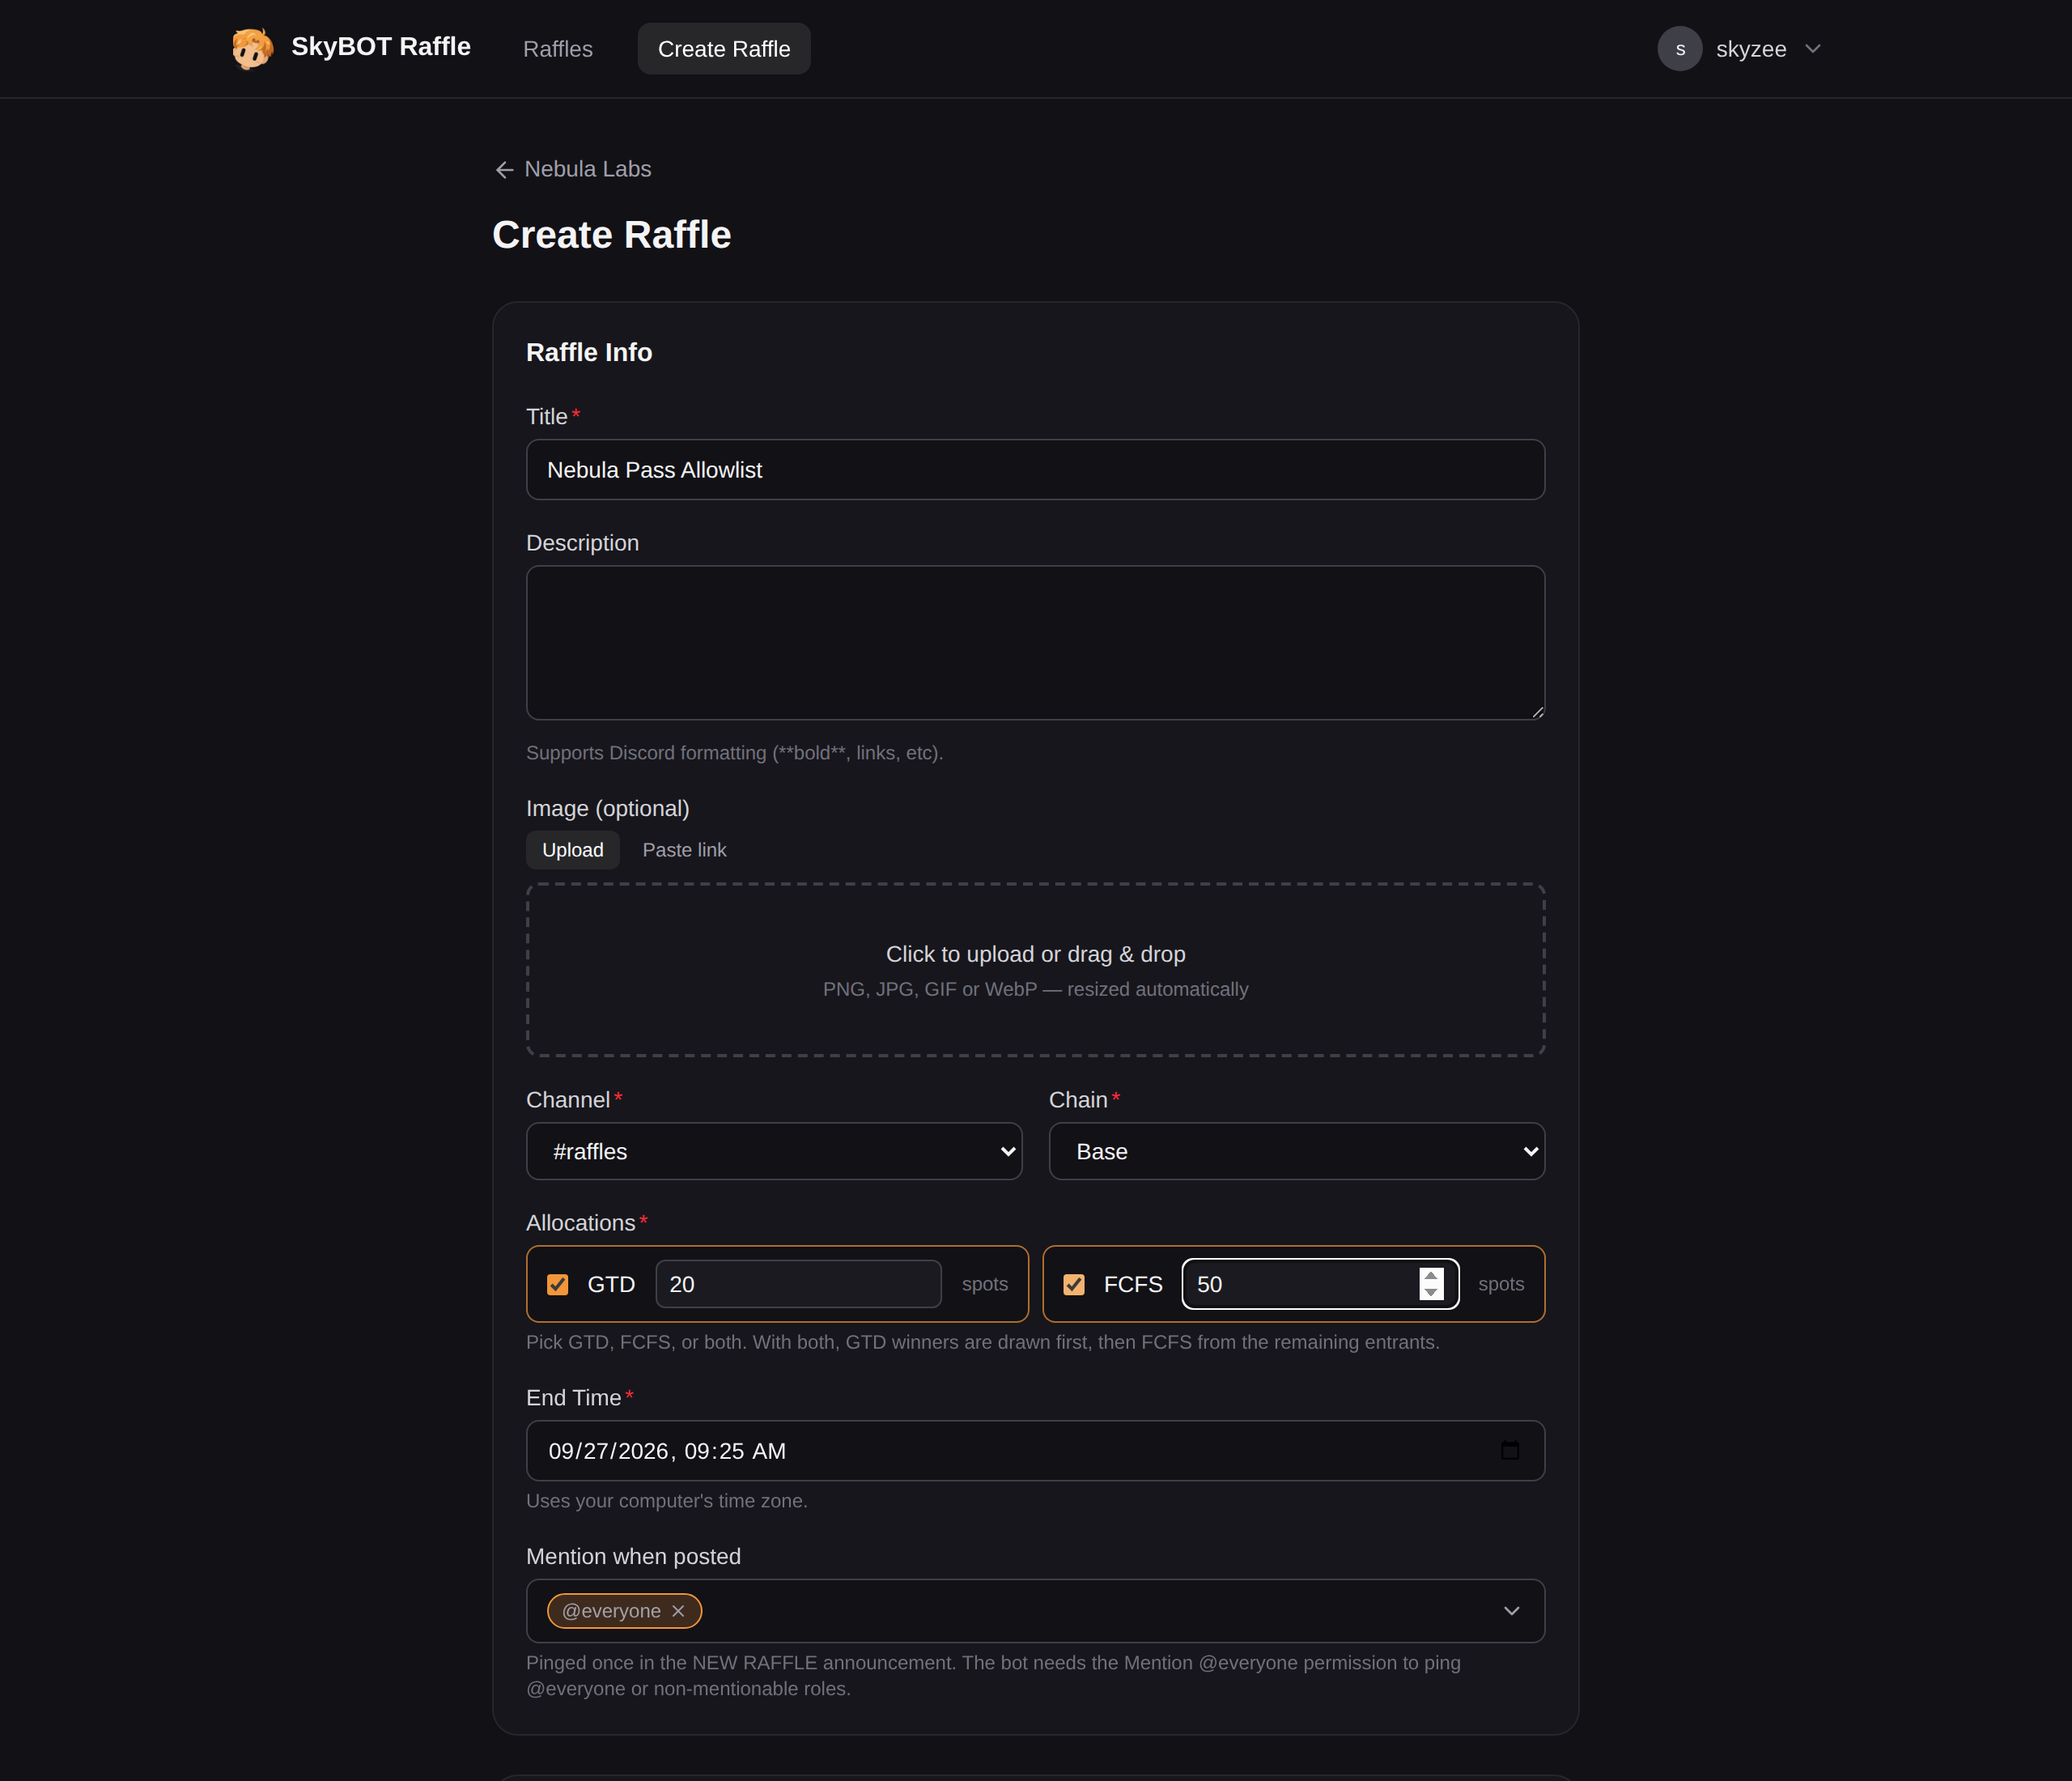
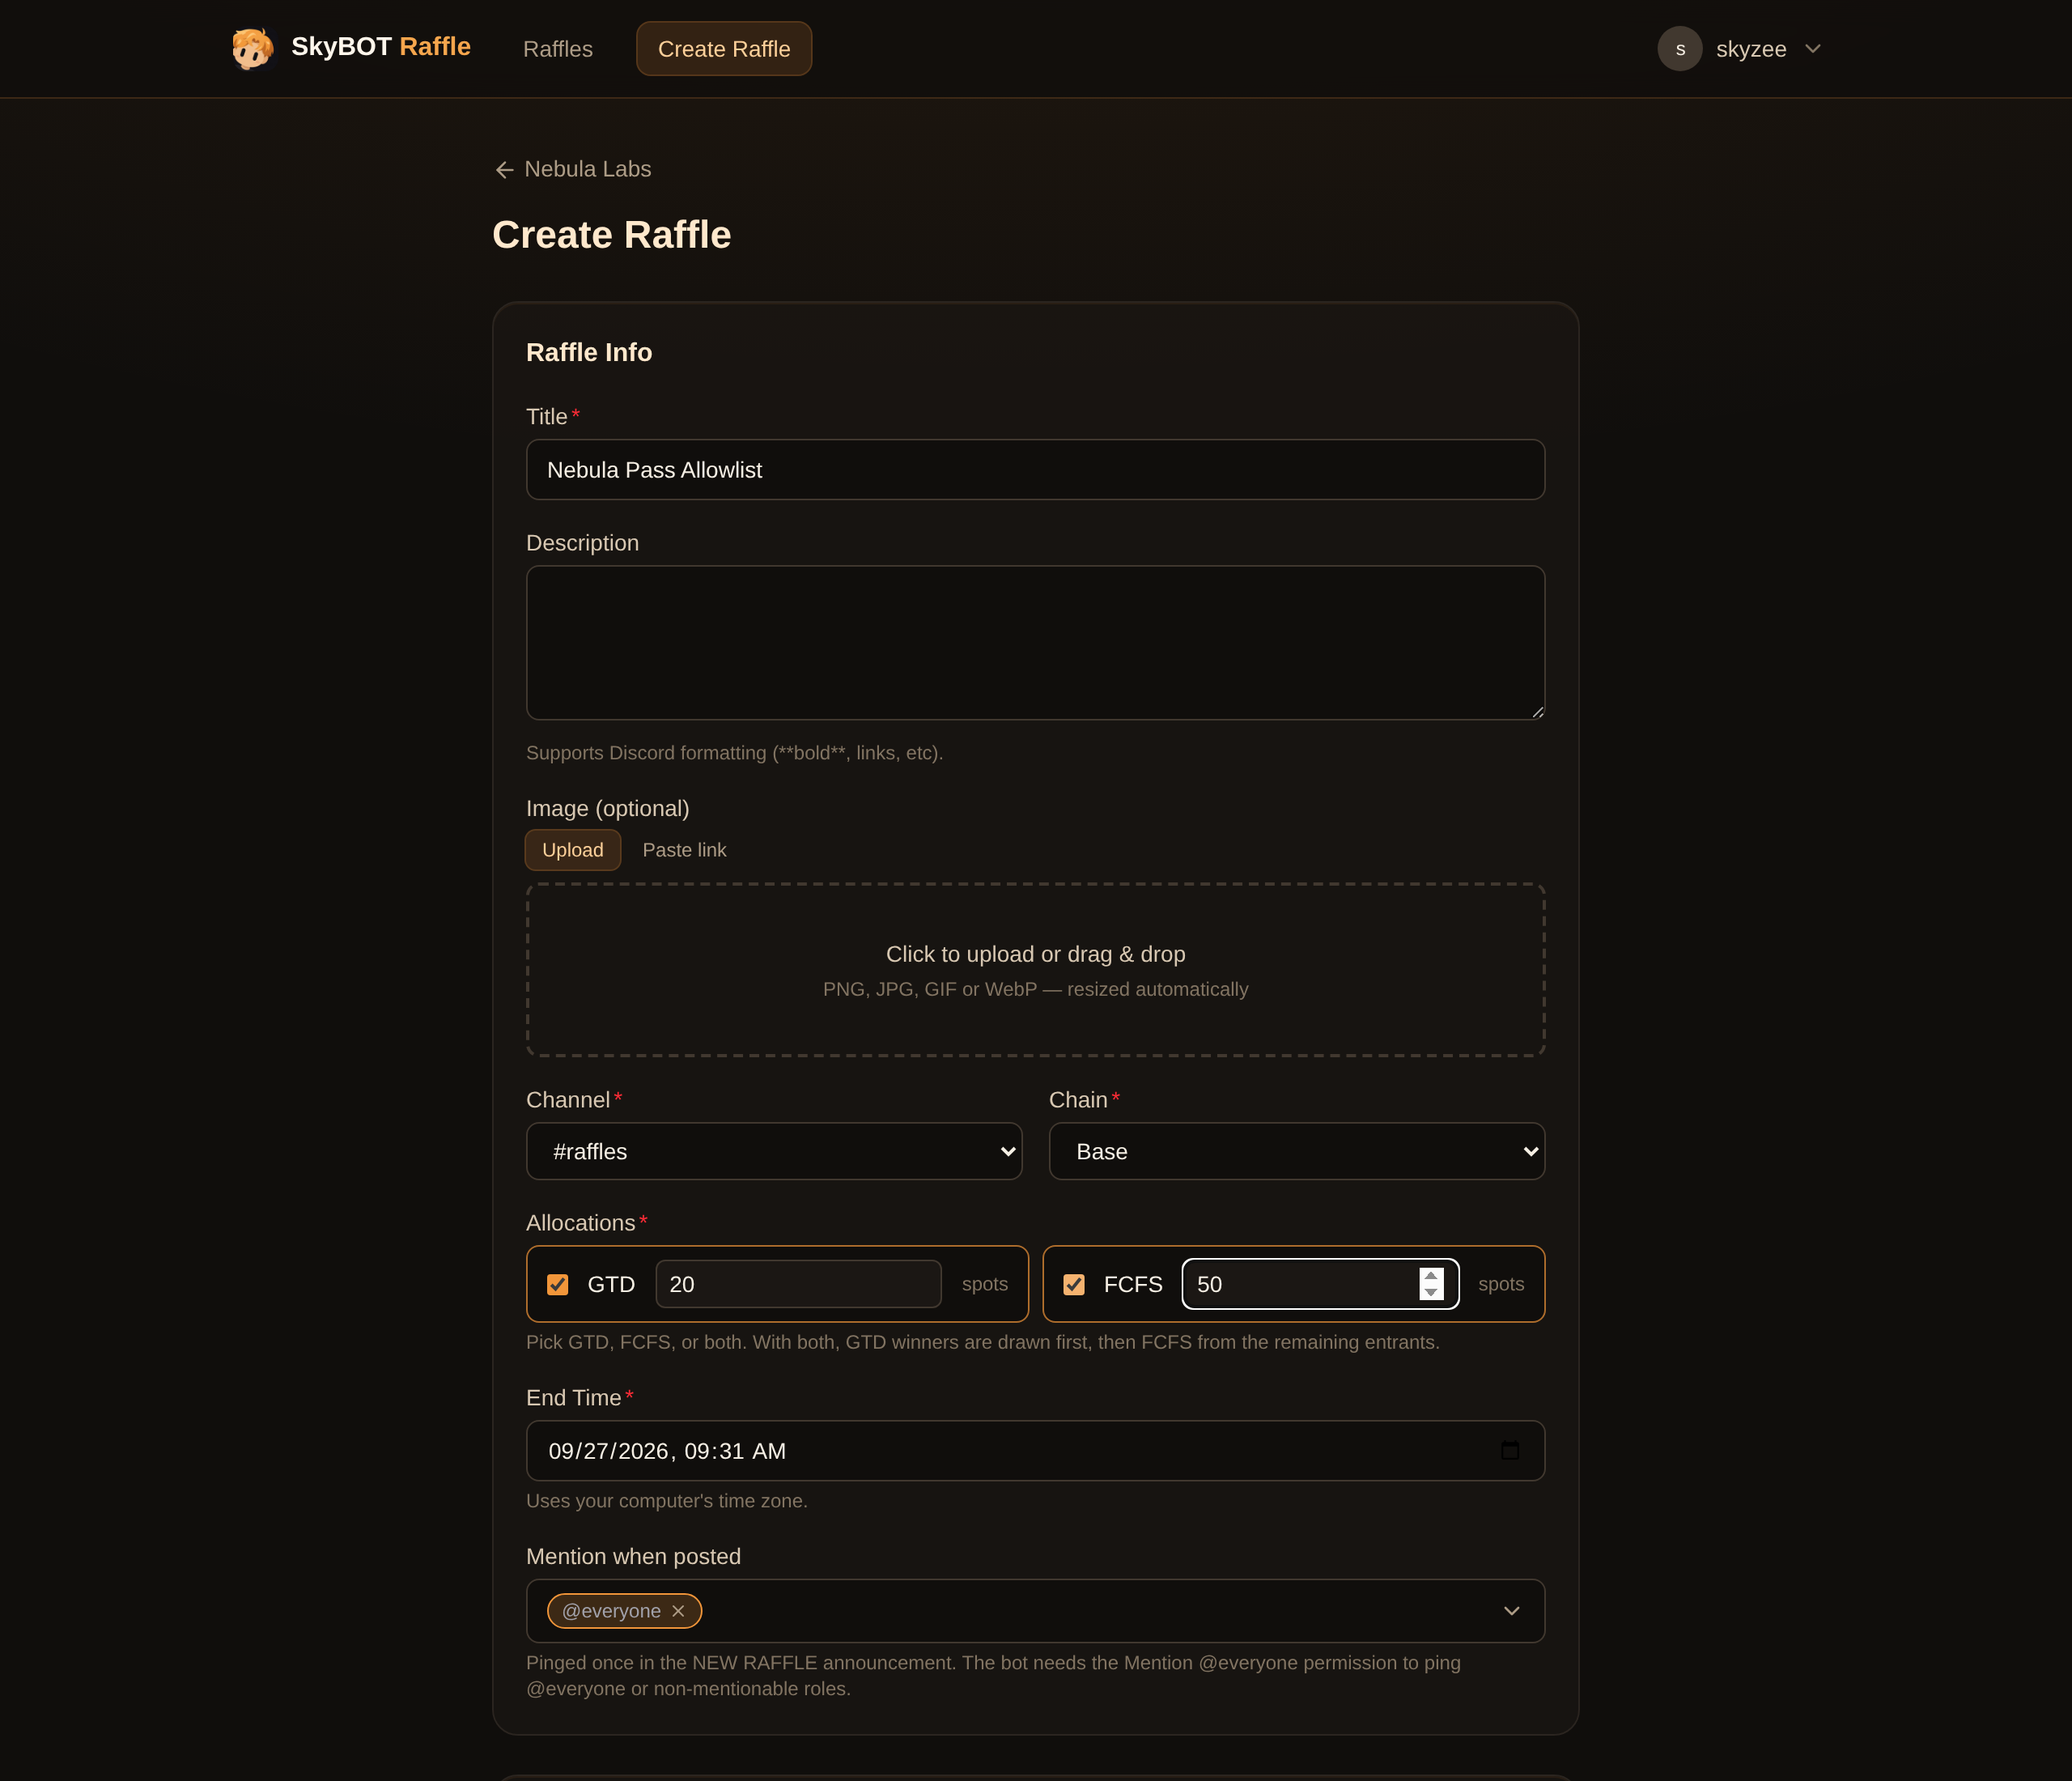
Warmer orange/cream theme on a black base; green Active and red Ended badges
Claude-Session: https://claude.ai/code/session_01P1wH5sBes2ybnoTETnyuB6

diff --git a/src/web/pages/RafflesList.tsx b/src/web/pages/RafflesList.tsx
@@ -79,7 +79,7 @@ export function RafflesListPage() {
           <button
             key={t}
             onClick={() => setParams(t === "live" ? {} : { tab: t })}
-            className={`rounded-lg px-4 py-1.5 text-sm ${tab === t ? "bg-zinc-800 text-white" : "text-zinc-400 hover:text-zinc-200"}`}
+            className={`rounded-lg px-4 py-1.5 text-sm ${tab === t ? "bg-brand-500/15 text-brand-200 ring-1 ring-brand-500/30" : "text-zinc-400 hover:text-zinc-200"}`}
           >
             {t === "live" ? (
               <span className="inline-flex items-center gap-2">
@@ -102,7 +102,7 @@ export function RafflesListPage() {
         {items?.map((r) => {
           const live = r.status === "ACTIVE" && new Date(r.endsAt).getTime() > now;
           return (
-            <Link key={r.id} to={`/raffle/${r.id}`} className="card flex flex-col gap-3 p-0 transition hover:border-zinc-600">
+            <Link key={r.id} to={`/raffle/${r.id}`} className="card flex flex-col gap-3 p-0 transition hover:border-brand-500/50">
               {r.imageUrl ? (
                 <img src={r.imageUrl} className="h-40 w-full rounded-t-2xl object-cover" alt="" />
               ) : (
@@ -121,12 +121,12 @@ export function RafflesListPage() {
                 </div>
                 <div className="line-clamp-2 font-semibold">{r.title}</div>
                 <div className="flex flex-wrap gap-1.5 text-xs">
-                  <span className="rounded-full bg-zinc-800 px-2 py-0.5 text-zinc-300">{r.allocations}</span>
-                  {r.chain && <span className="rounded-full bg-zinc-800 px-2 py-0.5 text-zinc-300">{r.chain}</span>}
+                  <span className="rounded-full bg-brand-500/10 px-2 py-0.5 text-brand-200 ring-1 ring-brand-500/20">{r.allocations}</span>
+                  {r.chain && <span className="rounded-full bg-brand-500/10 px-2 py-0.5 text-brand-200 ring-1 ring-brand-500/20">{r.chain}</span>}
                 </div>
                 <div className="mt-auto flex items-center justify-between pt-1 text-xs text-zinc-400">
                   <span>{r.entryCount} entr{r.entryCount === 1 ? "y" : "ies"}</span>
-                  <span className={live ? "font-medium text-emerald-400" : ""}>
+                  <span className={live ? "font-medium text-emerald-400" : "text-red-300/80"}>
                     {live ? `Ends in ${timeLeft(r.endsAt, now)}` : `Ended ${formatDate(r.endedAt ?? r.endsAt)}`}
                   </span>
                 </div>

diff --git a/src/web/index.css b/src/web/index.css
@@ -13,9 +13,30 @@
   --color-brand-800: #8c4a1e;
   --color-brand-900: #6b3a1a;
   --color-brand-950: #3d1f0c;
-  /* Latar gelap senada dengan latar logo */
-  --color-zinc-900: #1b1a21;
-  --color-zinc-950: #121116;
+  /* Netral hangat (krem → coklat gelap) dengan dasar hitam, senada dengan logo */
+  --color-zinc-50: #fbf8f3;
+  --color-zinc-100: #f6efe4;
+  --color-zinc-200: #eadfce;
+  --color-zinc-300: #d8c8b2;
+  --color-zinc-400: #ad9c86;
+  --color-zinc-500: #827462;
+  --color-zinc-600: #5d5246;
+  --color-zinc-700: #41382f;
+  --color-zinc-800: #2b2520;
+  --color-zinc-900: #1b1714;
+  --color-zinc-950: #100e0c;
+}
+
+body {
+  background:
+    radial-gradient(1200px 500px at 50% -200px, color-mix(in srgb, var(--color-brand-500) 10%, transparent), transparent),
+    var(--color-zinc-950);
+  background-attachment: fixed;
+}
+
+h1,
+h2 {
+  color: var(--color-brand-100);
 }
 
 input[type="checkbox"],
@@ -29,7 +50,7 @@ input[type="radio"] {
 
 @layer components {
   .card {
-    @apply rounded-2xl border border-zinc-800 bg-zinc-900/60 p-5;
+    @apply rounded-2xl border border-zinc-800 bg-zinc-900/70 p-5 shadow-[inset_0_1px_0_0_rgb(242_150_58/0.08)];
   }
   /* Pakai bersama varian: class="btn btn-primary" */
   .btn {
@@ -39,7 +60,7 @@ input[type="radio"] {
     @apply bg-brand-500 font-semibold text-zinc-950 hover:bg-brand-400;
   }
   .btn-ghost {
-    @apply border border-zinc-700 text-zinc-200 hover:bg-zinc-800;
+    @apply border border-zinc-700 text-zinc-200 hover:border-brand-500/50 hover:bg-brand-500/10 hover:text-brand-100;
   }
   .btn-danger {
     @apply border border-red-900 text-red-300 hover:bg-red-950;

diff --git a/src/web/pages/Admin.tsx b/src/web/pages/Admin.tsx
@@ -68,7 +68,7 @@ export function AdminPage() {
 
   return (
     <div className="min-h-screen">
-      <header className="border-b border-zinc-800 bg-zinc-950/80">
+      <header className="border-b border-brand-500/20 bg-zinc-950/80">
         <div className="mx-auto flex max-w-6xl items-center justify-between px-4 py-3">
           <Link to="/" className="flex items-center gap-2 font-semibold">
             <LogoMark /> SkyBOT Raffle <span className="text-sm font-normal text-zinc-500">· Admin</span>
@@ -143,7 +143,7 @@ function PinForm({ onUnlock }: { onUnlock: () => void }) {
 function Stat({ label, value, sub }: { label: string; value: number | string; sub?: string }) {
   return (
     <div className="card">
-      <div className="text-xs uppercase tracking-wide text-zinc-500">{label}</div>
+      <div className="text-xs uppercase tracking-wide text-brand-300/80">{label}</div>
       <div className="mt-1 text-3xl font-semibold tabular-nums">{value}</div>
       {sub && <div className="mt-1 text-xs text-zinc-500">{sub}</div>}
     </div>
@@ -203,7 +203,7 @@ function Dashboard({ onExpired }: { onExpired: () => void }) {
               <button
                 key={k}
                 onClick={() => setTab(k)}
-                className={`rounded-lg px-3 py-1.5 text-sm ${tab === k ? "bg-zinc-800 text-white" : "text-zinc-400 hover:text-zinc-200"}`}
+                className={`rounded-lg px-3 py-1.5 text-sm ${tab === k ? "bg-brand-500/15 text-brand-200 ring-1 ring-brand-500/30" : "text-zinc-400 hover:text-zinc-200"}`}
               >
                 {label}
               </button>

diff --git a/src/web/App.tsx b/src/web/App.tsx
@@ -73,15 +73,15 @@ function Header({ me, onLogout }: { me: Me | null | undefined; onLogout: () => v
   };
 
   const nav = ({ isActive }: { isActive: boolean }) =>
-    `rounded-lg px-3 py-1.5 text-sm ${isActive ? "bg-zinc-800 text-white" : "text-zinc-400 hover:text-zinc-200"}`;
+    `rounded-lg px-3 py-1.5 text-sm ${isActive ? "bg-brand-500/15 text-brand-200 ring-1 ring-brand-500/30" : "text-zinc-400 hover:text-zinc-200"}`;
   const avatar = me ? avatarUrl(me) : null;
 
   return (
-    <header className="border-b border-zinc-800 bg-zinc-950/80 backdrop-blur">
+    <header className="border-b border-brand-500/20 bg-zinc-950/80 backdrop-blur">
       <div className="mx-auto flex max-w-5xl items-center justify-between gap-3 px-4 py-3">
         <div className="flex items-center gap-1 sm:gap-4">
           <Link to="/" className="mr-1 flex items-center gap-2 font-semibold">
-            <LogoMark /> <span className="hidden sm:inline">SkyBOT Raffle</span>
+            <LogoMark /> <span className="hidden text-brand-50 sm:inline">SkyBOT <span className="text-brand-400">Raffle</span></span>
           </Link>
           <NavLink to="/" end className={nav}>
             Raffles

diff --git a/src/web/pages/ImageInput.tsx b/src/web/pages/ImageInput.tsx
@@ -58,7 +58,7 @@ export function ImageInput({ guildId, value, onChange }: { guildId: string; valu
             key={m}
             type="button"
             onClick={() => setMode(m)}
-            className={`rounded-md px-2.5 py-1 ${mode === m ? "bg-zinc-800 text-white" : "text-zinc-400 hover:text-zinc-200"}`}
+            className={`rounded-md px-2.5 py-1 ${mode === m ? "bg-brand-500/15 text-brand-200 ring-1 ring-brand-500/30" : "text-zinc-400 hover:text-zinc-200"}`}
           >
             {m === "upload" ? "Upload" : "Paste link"}
           </button>

diff --git a/src/web/pages/Raffle.tsx b/src/web/pages/Raffle.tsx
@@ -185,7 +185,7 @@ export function RafflePage() {
               <button
                 key={f}
                 onClick={() => setFilter(f)}
-                className={`rounded-lg px-3 py-1.5 text-sm ${filter === f ? "bg-zinc-800 text-white" : "text-zinc-400 hover:text-zinc-200"}`}
+                className={`rounded-lg px-3 py-1.5 text-sm ${filter === f ? "bg-brand-500/15 text-brand-200 ring-1 ring-brand-500/30" : "text-zinc-400 hover:text-zinc-200"}`}
               >
                 {filterLabel(f)} ({counts[f]})
               </button>

diff --git a/src/web/components.tsx b/src/web/components.tsx
@@ -12,8 +12,8 @@ export function Loading() {
 }
 
 const STATUS: Record<RaffleStatus, { label: string; cls: string }> = {
-  ACTIVE: { label: "Active", cls: "bg-brand-500/15 text-brand-300" },
-  ENDED: { label: "Ended", cls: "bg-emerald-500/15 text-emerald-300" },
+  ACTIVE: { label: "Active", cls: "bg-emerald-500/15 text-emerald-300 ring-1 ring-emerald-500/30" },
+  ENDED: { label: "Ended", cls: "bg-red-500/15 text-red-300 ring-1 ring-red-500/30" },
   CANCELLED: { label: "Cancelled", cls: "bg-zinc-700/40 text-zinc-400" },
 };
 

diff --git a/src/web/pages/PublicRaffle.tsx b/src/web/pages/PublicRaffle.tsx
@@ -204,7 +204,7 @@ export function PublicRafflePage() {
 function Info({ label, value, sub }: { label: string; value: string; sub?: string }) {
   return (
     <div className="card p-4">
-      <div className="text-xs uppercase tracking-wide text-zinc-500">{label}</div>
+      <div className="text-xs uppercase tracking-wide text-brand-300/80">{label}</div>
       <div className="mt-1 font-semibold">{value}</div>
       {sub && <div className="mt-0.5 text-xs text-zinc-500">{sub}</div>}
     </div>

diff --git a/src/web/pages/Guild.tsx b/src/web/pages/Guild.tsx
@@ -95,7 +95,7 @@ export function GuildPage() {
             <Link
               key={r.id}
               to={`/r/${r.id}`}
-              className="card flex flex-wrap items-center gap-4 transition hover:border-zinc-600"
+              className="card flex flex-wrap items-center gap-4 transition hover:border-brand-500/50"
             >
               {r.imageUrl && <img src={r.imageUrl} className="h-14 w-14 rounded-lg object-cover" alt="" />}
               <div className="min-w-0 flex-1">

diff --git a/src/web/pages/Guilds.tsx b/src/web/pages/Guilds.tsx
@@ -38,7 +38,7 @@ export function GuildsPage() {
               </div>
             </>
           );
-          const cls = "card flex items-center gap-3 transition hover:border-zinc-600";
+          const cls = "card flex items-center gap-3 transition hover:border-brand-500/50";
           return g.botPresent ? (
             <Link key={g.id} to={`/server/${g.id}`} className={cls}>
               {inner}

diff --git a/src/web/Credits.tsx b/src/web/Credits.tsx
@@ -109,7 +109,7 @@ export function DonateButton({ className = "" }: { className?: string }) {
 
 export function Footer() {
   return (
-    <footer className="border-t border-zinc-800">
+    <footer className="border-t border-brand-500/15">
       <div className="mx-auto flex max-w-5xl flex-wrap items-center justify-between gap-3 px-4 py-5">
         <CreatorCredit />
         <DonateButton />

diff --git a/src/web/index.html b/src/web/index.html
@@ -6,7 +6,7 @@
     <title>SkyBOT Raffle</title>
     <link rel="icon" type="image/png" href="/favicon.png" />
     <link rel="apple-touch-icon" href="/apple-touch-icon.png" />
-    <meta name="theme-color" content="#121116" />
+    <meta name="theme-color" content="#100e0c" />
   </head>
   <body class="bg-zinc-950 text-zinc-100 antialiased">
     <div id="root"></div>
